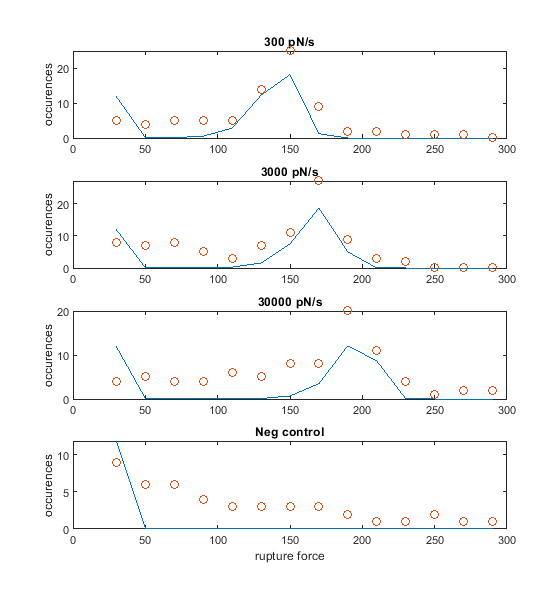
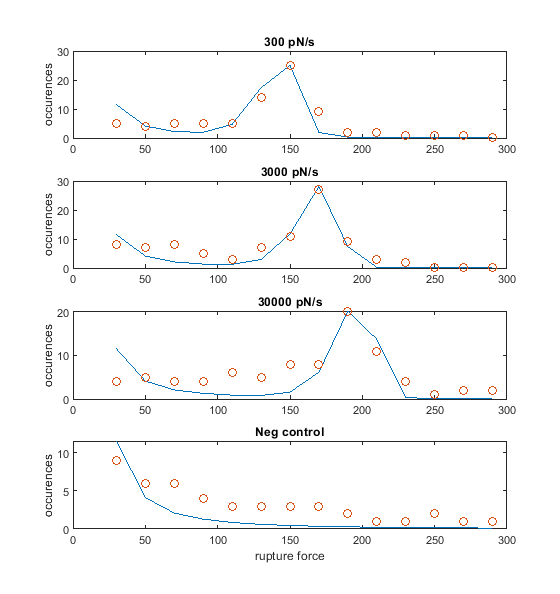
puget files

diff --git a/Lab_assignments/lab6/lab6.m b/Lab_assignments/lab6/lab6.m
@@ -41,7 +41,7 @@ k = 0.1; % s^-1
 fs = 10; % pN
 S_0 = [80,80,80,80];
 
-guesses = [k,fs,0,S_0]; % 0 padding for later variable
+guesses = [k,fs,S_0]; % 0 padding for later variable
 
 % use fminsearch to find parameters
 tic
@@ -51,8 +51,8 @@ disp(estimates)
 
 % solve ODE using estimated parameters
 fspan = 20:20:300;
-params = [estimates(1),estimates(2),0];
-S_0 = estimates(4:end);
+params = [estimates(1),estimates(2)];
+S_0 = estimates(3:end);
 [f,S] = ode23s(@bondODE, fspan, S_0, [], params);
 
 % num ruptured
@@ -62,7 +62,7 @@ rup = -diff(S);
 plotCompare(rup)
 
 % save
-save('estimates.mat','estimates','J')
+%save('estimates.mat','estimates','J')
 
 %% Question 5: adding negative control
 
@@ -71,9 +71,10 @@ load('dat.mat')
 global dat
 
 % guess parameters
-k = 0.1; % s^-1
+k = 0.01; % s^-1
 fs = 10; % pN
-S_0 = [80,80,80,80];
+N_0 = 1000;
+S_0 = [80,80,80,N_0];
 a = 0.1;
 
 guesses = [k,fs,a,S_0];
@@ -98,6 +99,40 @@ rup(:,1:3) = -diff(S(:,1:3) + S(:,4));
 plotCompare(rup)
 
 % save
-save('estimates_neg.mat','estimates','J')
+%save('estimates_neg.mat','estimates','J')
 
+%% Question 6: variance weighted
+clear all; close all; clc
+load('dat.mat')
+global dat
 
+% guess parameters
+k = 0.01; % s^-1
+fs = 10; % pN
+N_0 = 5000;
+S_0 = [80,80,80,N_0];
+a = 0.1;
+
+guesses = [k,fs,a,S_0];
+
+% use fminsearch to find parameters
+tic
+[estimates, J] = fminsearch(@obj2,guesses);
+toc
+disp(estimates)
+
+% solve ODE using estimated parameters
+fspan = 20:20:300;
+params = [estimates(1),estimates(2),estimates(3)];
+S_0 = estimates(4:end);
+[f,S] = ode23s(@bondODE, fspan, S_0, [], params);
+
+% num ruptured
+rup(:,4) = -diff(S(:,4));
+rup(:,1:3) = -diff(S(:,1:3) + S(:,4)); 
+
+% plot
+plotCompare(rup)
+
+% save
+save('estimates_neg_var.mat','estimates','J')

diff --git a/Lab_assignments/lab6/obj2.m b/Lab_assignments/lab6/obj2.m
@@ -1,6 +1,6 @@
 % Objective function (J)
 
-function J = obj(guesses)
+function J = obj2(guesses)
 global dat
 % solve ODE for all 4 conditions
 %disp(guesses)
@@ -20,10 +20,10 @@ rup = -diff(S);
 % ylim([0 45])
 
 % weighted least-squares
-J = sum(((dat.f300-rup(:,1))).^2)/std(dat.f300) + ...
-    sum(((dat.f3000-rup(:,2))).^2)/std(dat.f3000) + ...
-    sum(((dat.f30000-rup(:,3))).^2)/std(dat.f30000); 
+J = sum(((dat.f300-rup(:,1))).^2)/var(dat.f300) + ...
+    sum(((dat.f3000-rup(:,2))).^2)/var(dat.f3000) + ...
+    sum(((dat.f30000-rup(:,3))).^2)/var(dat.f30000); 
 
-J = J + sum(((dat.ctrl-rup(:,4))).^2)/std(dat.ctrl);
+J = J + sum(((dat.ctrl-rup(:,4))).^2)/var(dat.ctrl);
 
 end

diff --git a/Lab_assignments/lab6/bondODE.m b/Lab_assignments/lab6/bondODE.m
@@ -11,6 +11,6 @@ dSdf = zeros(4,1);
 dSdf(1) = -k / dat.r(1) * exp(f/fs) * S(1);  % solves for S f300
 dSdf(2) = -k / dat.r(2) * exp(f/fs) * S(2);  % solves for S f3000
 dSdf(3) = -k / dat.r(3) * exp(f/fs) * S(3);  % solves for S f30000
-dSdf(4) = -a * S(4) * exp(-a/f);             % solves for N 
+dSdf(4) = -a * S(4) * exp(-a/f) / f^2;             % solves for N 
 
 end
